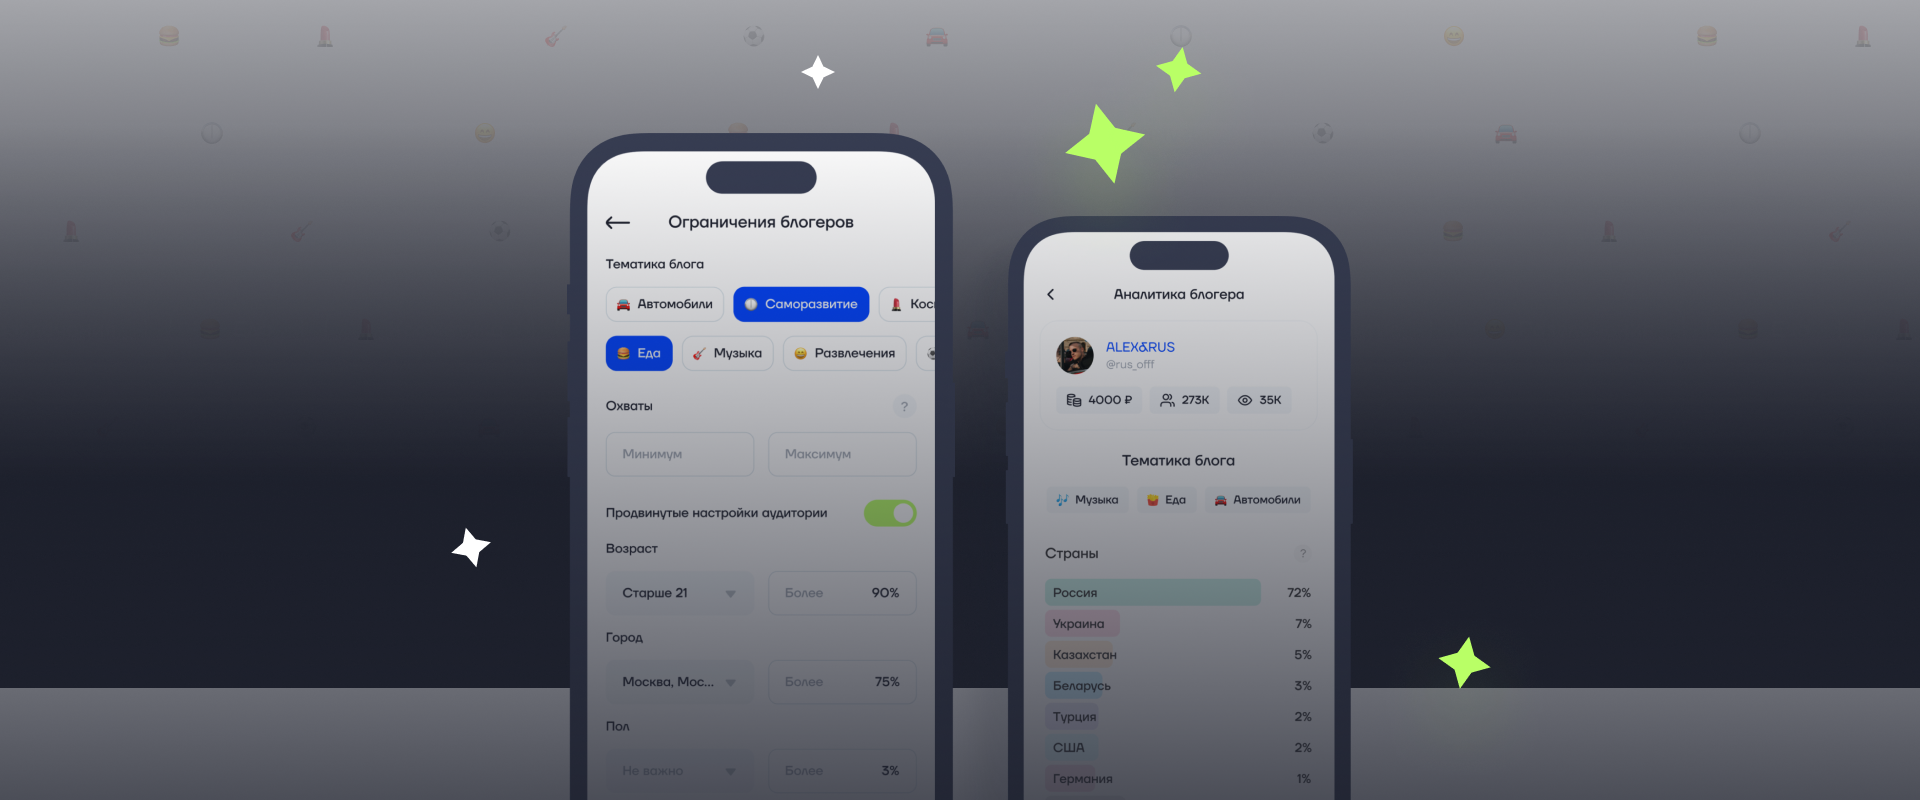
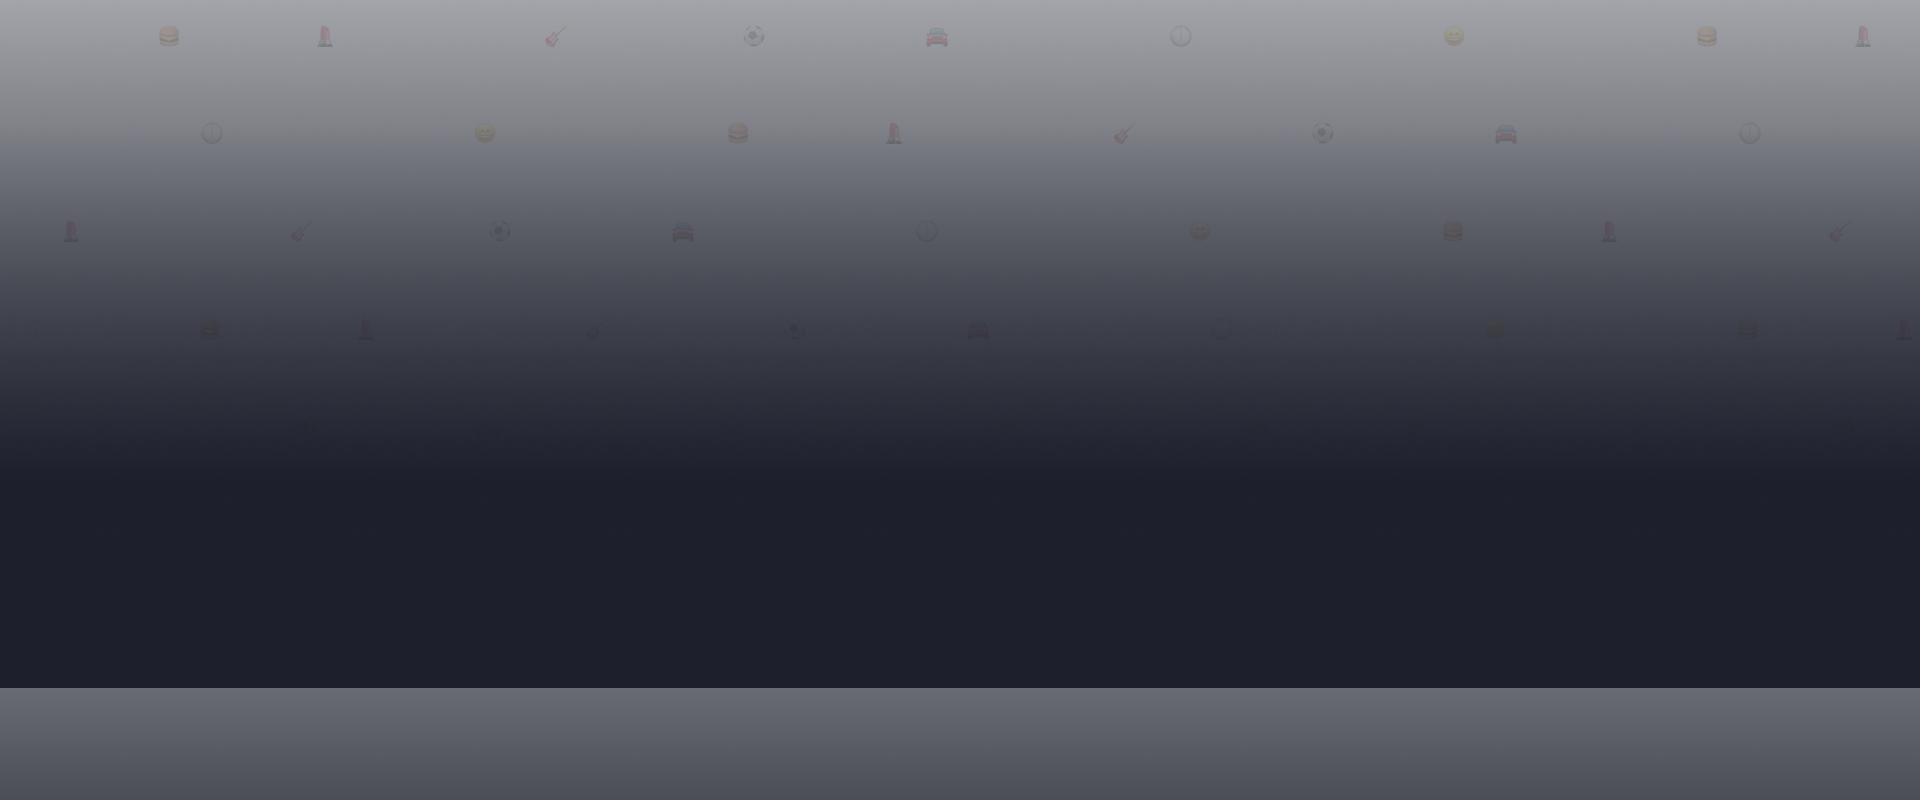
доделана секция выбирать блогеров

diff --git a/app/css/main.css b/app/css/main.css
@@ -222,6 +222,11 @@ ul li:first-child {
     border-top-right-radius: 10px;
     border-bottom-right-radius: 10px;
     overflow: hidden; }
+    @media (max-width: 500px) {
+      .btn1--type5 .icon-right-arrow {
+        font-size: 15px;
+        width: 45px;
+        height: 42px; } }
     .btn1--type5 .icon-right-arrow:after {
       content: '';
       position: absolute;
@@ -230,6 +235,10 @@ ul li:first-child {
       border: 20px solid transparent;
       border-left: 1px solid #B9FF66;
       border-top: 55px solid #B9FF66; }
+      @media (max-width: 500px) {
+        .btn1--type5 .icon-right-arrow:after {
+          border-top: 70px solid #B9FF66;
+          left: -10px; } }
   .btn1--type5 span {
     position: relative;
     z-index: 9;
@@ -1310,6 +1319,8 @@ ul li:first-child {
 
 /* choise */
 .choise {
+  overflow: hidden;
+  position: relative;
   background: url(../img/choise-bg1.png) no-repeat center bottom, #1D202C;
   padding-bottom: 60px;
   border-bottom-right-radius: 100px;
@@ -1378,7 +1389,10 @@ ul li:first-child {
   @media (max-width: 991px) {
     .choise__text {
       font-size: 14px;
-      margin-bottom: 430px; } }
+      margin-bottom: 400px; } }
+  @media (max-width: 500px) {
+    .choise__text {
+      margin-bottom: 420px; } }
 
 .choise__btn {
   display: inline-block;
@@ -1386,9 +1400,17 @@ ul li:first-child {
   height: 60px;
   border-radius: 10px;
   align-items: center;
-  transition: 0.2s ease; }
+  transition: 0.2s ease;
+  position: relative;
+  z-index: 10; }
   .choise__btn:hover {
     transform: scale(1.05); }
+  @media (max-width: 500px) {
+    .choise__btn {
+      width: 226px !important;
+      height: 42px !important;
+      font-size: 14px;
+      padding: 13px 48px 14px 11px; } }
 
 .choise__btn-wrap {
   text-align: center; }
@@ -1396,6 +1418,54 @@ ul li:first-child {
 .choise__btn {
   width: 270px;
   height: 60px; }
+
+.choise__phones {
+  position: absolute;
+  left: 50%;
+  width: 768px;
+  margin-left: -393px;
+  display: grid;
+  grid-template-columns: 388px 348px;
+  justify-content: center;
+  align-items: flex-end;
+  bottom: 0; }
+  @media (max-width: 991px) {
+    .choise__phones {
+      grid-template-columns: 248px 222px;
+      bottom: -30px; } }
+  @media (max-width: 720px) {
+    .choise__phones {
+      grid-template-columns: 198px 192px;
+      bottom: 0; } }
+  @media (max-width: 500px) {
+    .choise__phones {
+      display: flex;
+      justify-content: space-between;
+      width: 335px;
+      margin-left: -167px; } }
+  @media (max-width: 500px) {
+    .choise__phones img:first-child {
+      width: 212px;
+      height: auto; } }
+  @media (max-width: 500px) {
+    .choise__phones img:last-child {
+      width: 190px;
+      height: auto;
+      margin-left: -130px; } }
+
+.choise__mask {
+  position: absolute;
+  bottom: -6px;
+  left: 0;
+  z-index: 9; }
+  .choise__mask img {
+    border-radius: 100px; }
+  @media (max-width: 991px) {
+    .choise__mask {
+      bottom: -5px; } }
+  @media (max-width: 500px) {
+    .choise__mask {
+      bottom: -15px; } }
 
 /* cover */
 .cover {

diff --git a/app/sass/main.sass b/app/sass/main.sass
@@ -801,6 +801,8 @@
             display: none
 /* choise */
 .choise
+    overflow: hidden
+    position: relative
     background: url(../img/choise-bg1.png) no-repeat center bottom, #1D202C
     padding-bottom: 60px
     border-bottom-right-radius: 100px
@@ -860,7 +862,9 @@
         margin-bottom: 660px
     +md
         font-size: 14px
-        margin-bottom: 430px
+        margin-bottom: 400px
+    +xs
+        margin-bottom: 420px
 .choise__btn
     display: inline-block
     padding: 19px 67px 19px 23px
@@ -868,13 +872,61 @@
     border-radius: 10px
     align-items: center
     transition: 0.2s ease
+    position: relative
+    z-index: 10
     &:hover
         transform: scale(1.05)
+    +xs
+        width: 226px !important
+        height: 42px !important
+        font-size: 14px
+        padding: 13px 48px 14px 11px
 .choise__btn-wrap
     text-align: center
 .choise__btn
     width: 270px
     height: 60px
+.choise__phones
+    position: absolute
+    left: 50%
+    width: 768px
+    margin-left: -393px
+    display: grid
+    grid-template-columns: 388px 348px
+    justify-content: center
+    align-items: flex-end
+    bottom: 0
+    +md
+        grid-template-columns: 248px 222px
+        bottom: -30px
+    +sm
+        grid-template-columns: 198px 192px
+        bottom: 0
+    +xs
+        display: flex
+        justify-content: space-between
+        width: 335px
+        margin-left: -167px
+    img:first-child
+        +xs
+            width: 212px
+            height: auto
+    img:last-child
+        +xs
+            width: 190px
+            height: auto
+            margin-left: -130px
+.choise__mask
+    position: absolute
+    bottom: -6px
+    left: 0
+    z-index: 9
+    img
+        border-radius: 100px
+    +md
+        bottom: -5px
+    +xs
+        bottom: -15px
 /* cover */
 .cover
     padding: 80px 0

diff --git a/app/index.html b/app/index.html
@@ -517,11 +517,13 @@
 	</div>
 	<!-- choise -->
 	<div class="choise" id="choise">
+		<div class="choise__mask">
+			<img src="img/choise-mask.png">
+		</div>
 		<div class="container">
 			<div class="choise__title-wrap title-wrap">
 				<h2 class="title choise__title">
 					Выбирать
-					<!-- <img src="img/choise_title_icon.svg" class="wow animate__animated animate__shakeX"> -->
 					<div class="choise__title-tmblr wow">
 						<span class="wow"></span>
 					</div>
@@ -530,6 +532,10 @@
 			</div>
 			<div class="choise__text">
 				Нужная аудитория стала ближе, а эффективность рекламы еще выше
+			</div>
+			<div class="choise__phones">
+				<img src="img/choise-phone1.png" class="wow">
+				<img src="img/choise-phone2.png" class="wow">
 			</div>
 			<div class="choise__btn-wrap">
 				<a href="#" class="choise__btn btn btn1 btn1--type5" data-modal="modal-one">

diff --git a/app/sass/_5 ui.sass b/app/sass/_5 ui.sass
@@ -136,6 +136,10 @@
         border-top-right-radius: 10px
         border-bottom-right-radius: 10px
         overflow: hidden
+        +xs
+            font-size: 15px
+            width: 45px
+            height: 42px
         &:after
             content: ''
             position: absolute
@@ -144,6 +148,9 @@
             border: 20px solid transparent
             border-left: 1px solid #B9FF66
             border-top: 55px solid #B9FF66
+            +xs
+                border-top: 70px solid #B9FF66
+                left: -10px
     span
         position: relative
         z-index: 9

diff --git a/app/css/myanims.css b/app/css/myanims.css
@@ -54,7 +54,7 @@
     }
 }
 /* main__phones  */
-.main__phones { animation-name: moveFromBottom; animation-duration: 1s; }
+.main__phones, .choise__phones img { animation-name: moveFromBottom; animation-duration: 1s; }
 @keyframes moveFromBottom {
     from { transform: translateY(800px) }
 }
